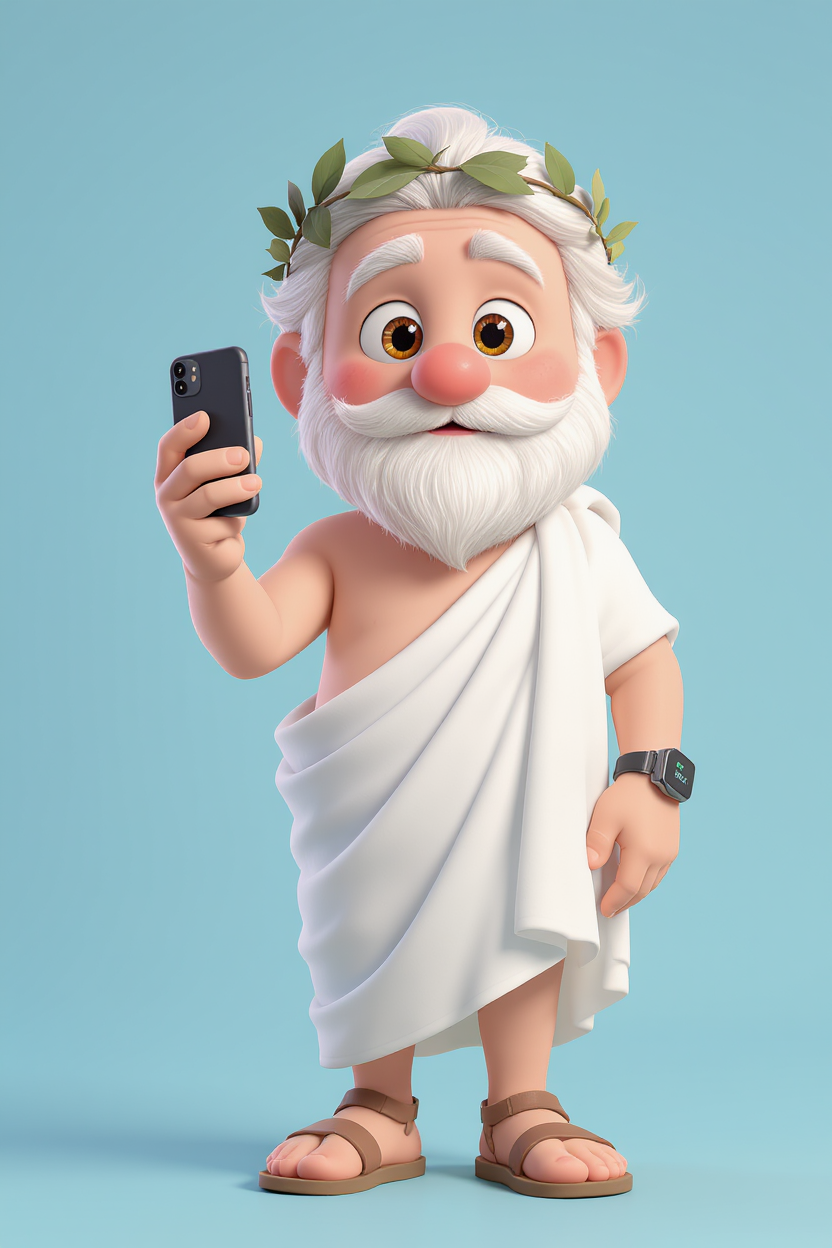
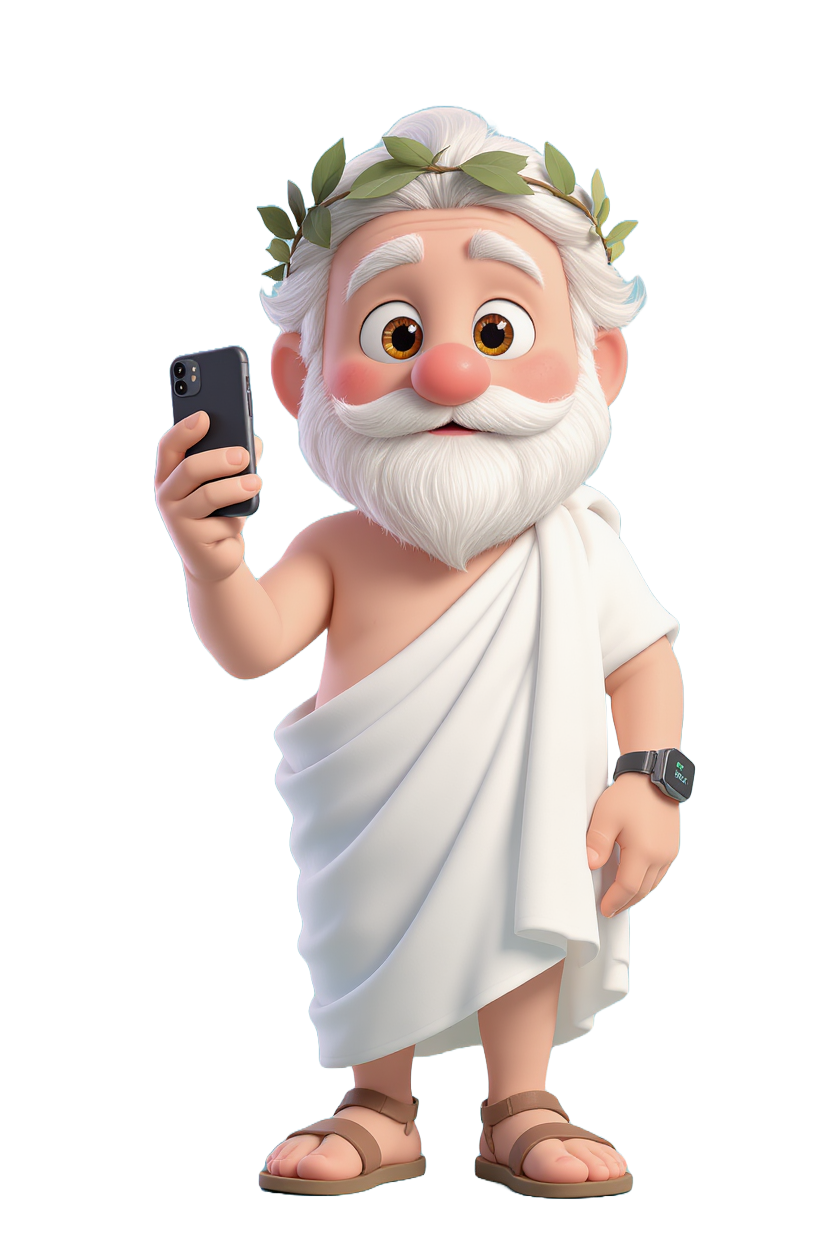
Checkpoint: Substituída imagem do Pitágoras pela versão com fundo transparente (PNG). A nova imagem mantém a qualidade visual e se integra melhor ao design das páginas Pricing.tsx e FAQ.tsx, sem bordas ou fundos indesejados.

diff --git a/todo.md b/todo.md
@@ -367,3 +367,9 @@
 - [x] Adicionar imagem na página Aprenda (FAQ.tsx) - CONCLUÍDO
 - [x] Testar responsividade da imagem - CONCLUÍDO
 - [ ] Fazer checkpoint e publicar
+
+## Passo 23: Substituir Imagem do Pitágoras por Versão com Fundo Transparente (30/01/2026)
+
+- [x] Copiar nova imagem pitágoras2.png para client/public/pitagoras.png - CONCLUÍDO
+- [x] Verificar se as páginas Pricing.tsx e FAQ.tsx carregam a nova imagem - CONCLUÍDO
+- [ ] Fazer checkpoint e publicar
